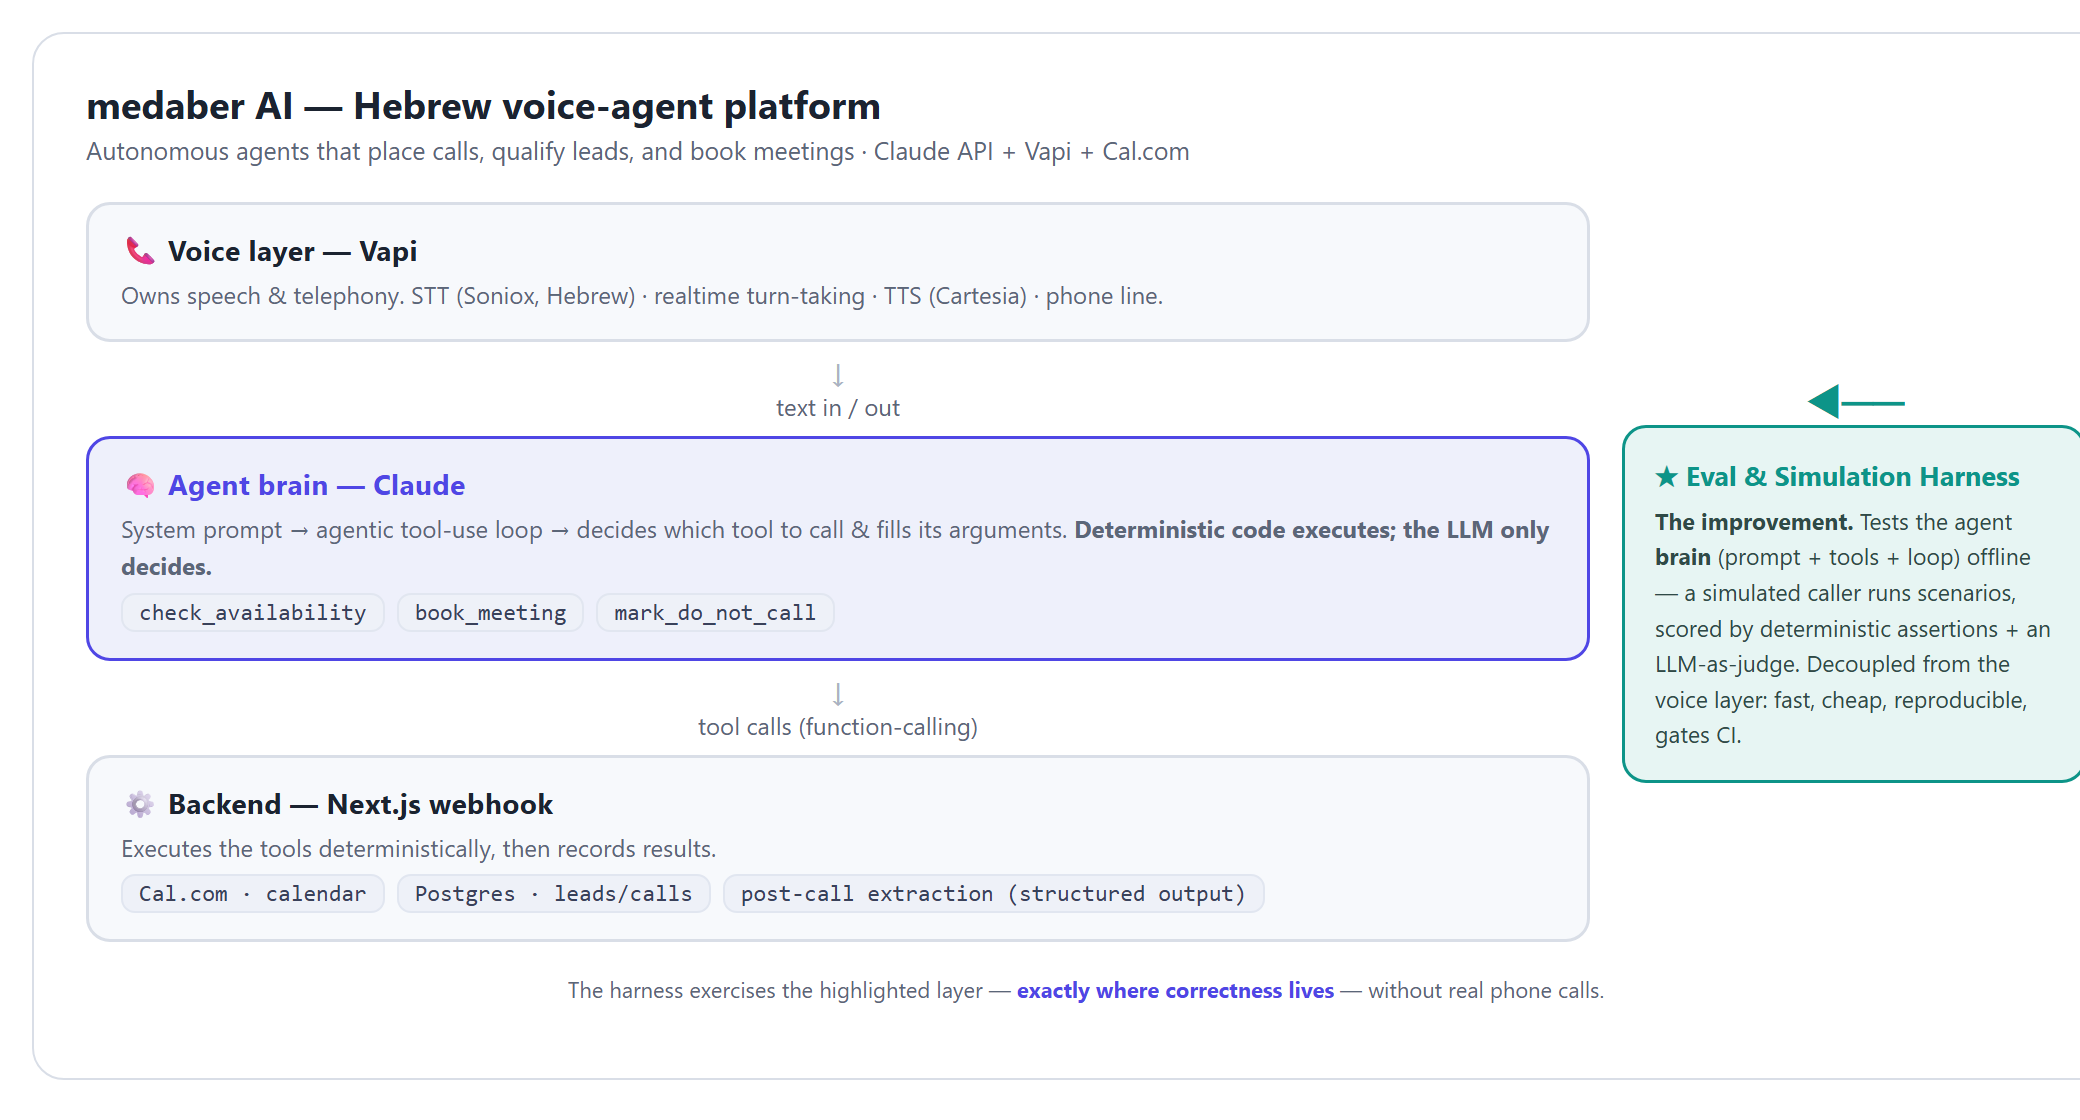
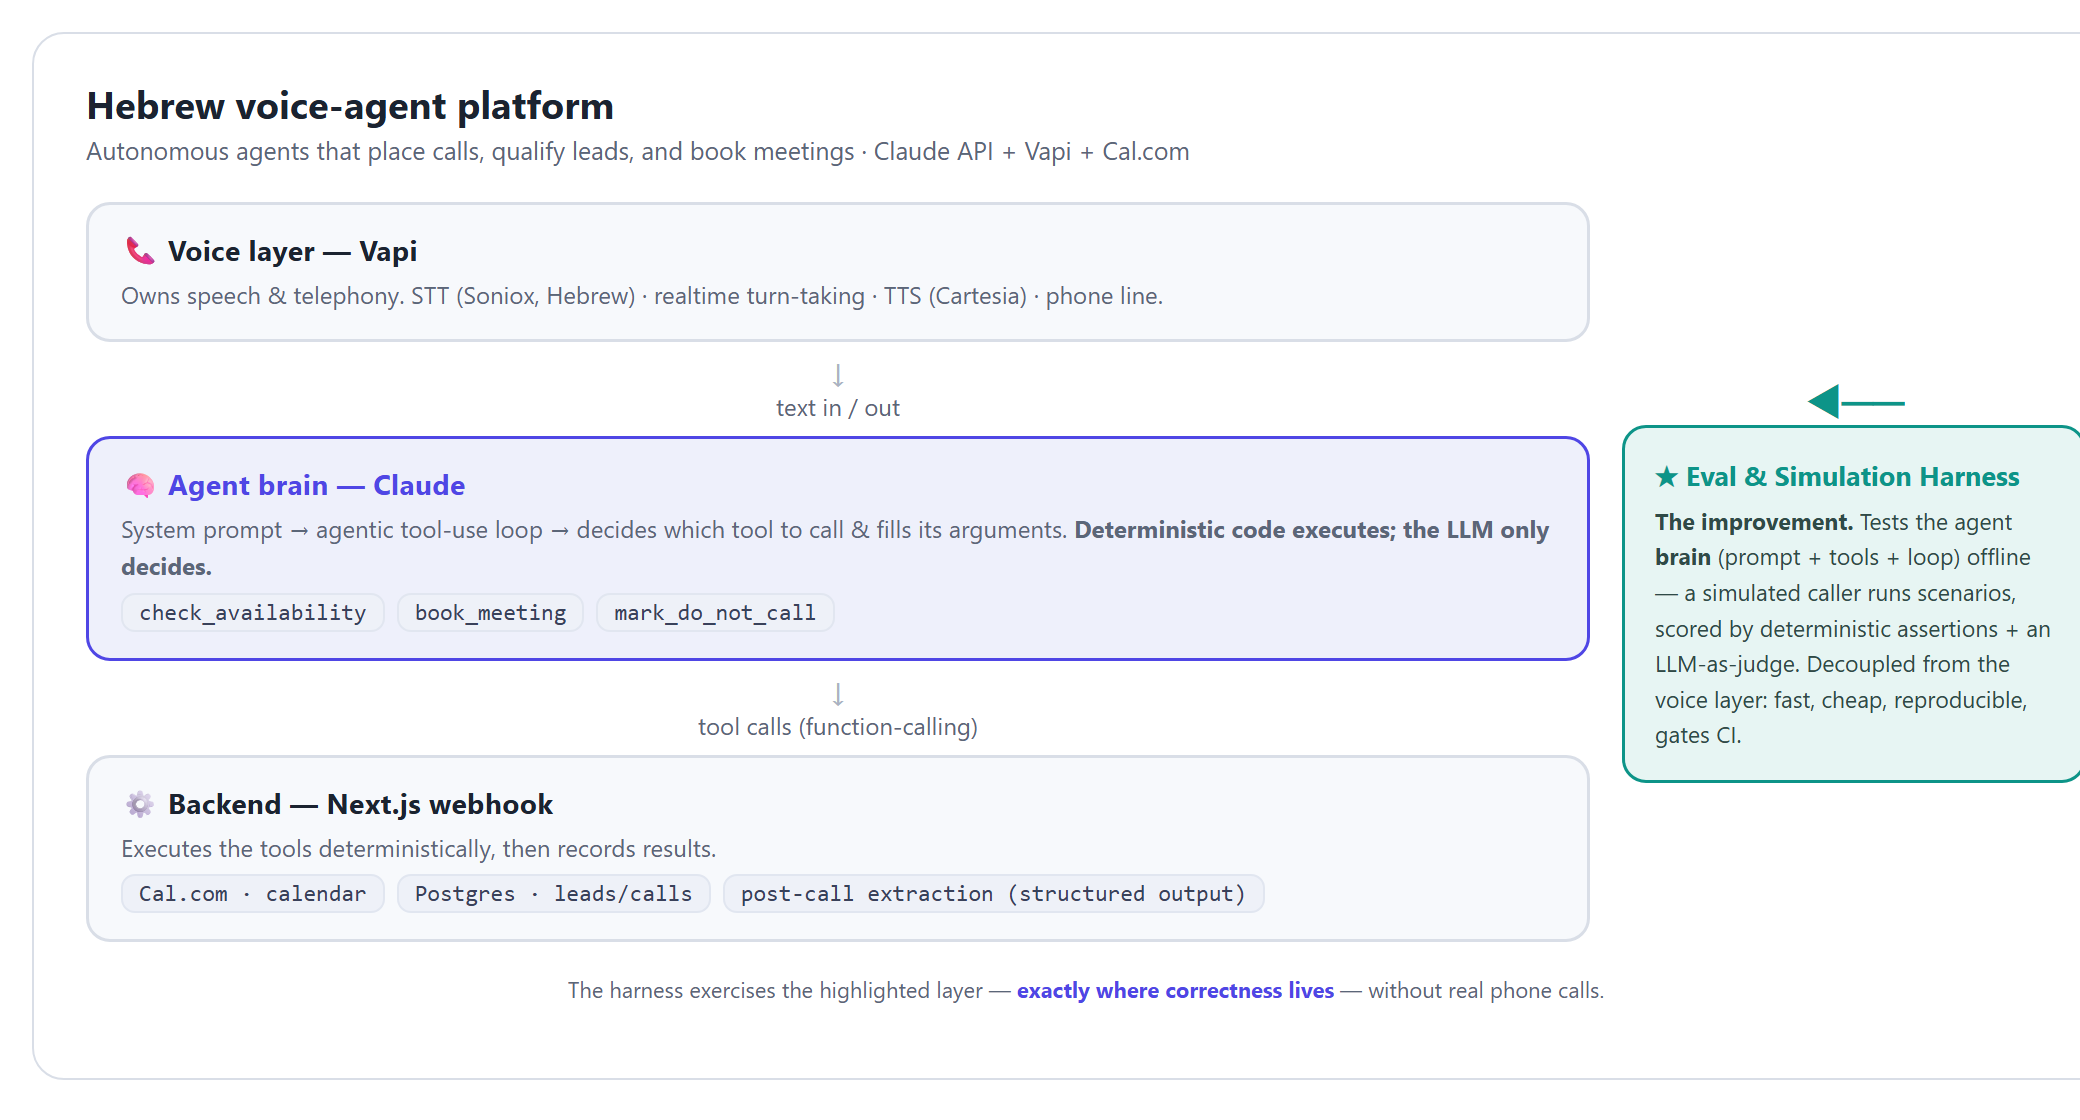
Make the repo brand-neutral
Drop the specific product name from the README and the architecture
diagram (describe it generically as a Hebrew voice-agent platform), so
the demonstration stands on its own regardless of product branding.

Changed region(s): [[0.0312, 0.0625, 0.4375, 0.125]]

diff --git a/README.md b/README.md
@@ -12,13 +12,13 @@ voice agent), and every run is scored on two axes: **deterministic assertions** 
 
 ## The project this tests
 
-**medaber AI** is a Hebrew voice-agent platform: a user describes an agent in plain chat, Claude
-turns that into a Vapi assistant, and the assistant autonomously calls contacts — qualifying
-leads and booking meetings via function-calling into Cal.com. This harness is an **improvement**
-I built around that product: it tests the agent's reasoning (the highlighted layer below)
-offline, where correctness actually lives — without real phone calls.
+It's a Hebrew voice-agent platform: a user describes an agent in plain chat, Claude turns that
+into a Vapi assistant, and the assistant autonomously calls contacts — qualifying leads and
+booking meetings via function-calling into Cal.com. This harness is an **improvement** I built
+around that product: it tests the agent's reasoning (the highlighted layer below) offline, where
+correctness actually lives — without real phone calls.
 
-![medaber AI architecture — the harness tests the agent brain](docs/architecture.png)
+![Voice-agent architecture — the harness tests the agent brain](docs/architecture.png)
 
 ## Sample run
 
